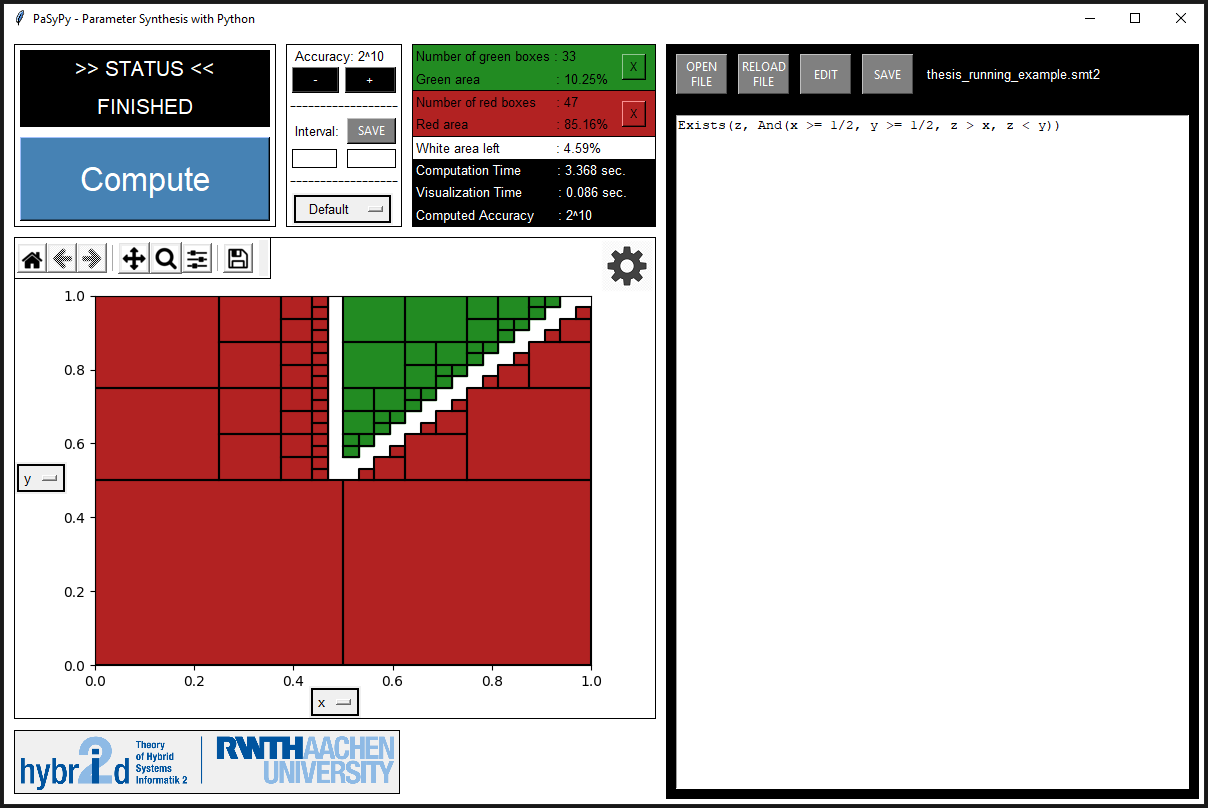
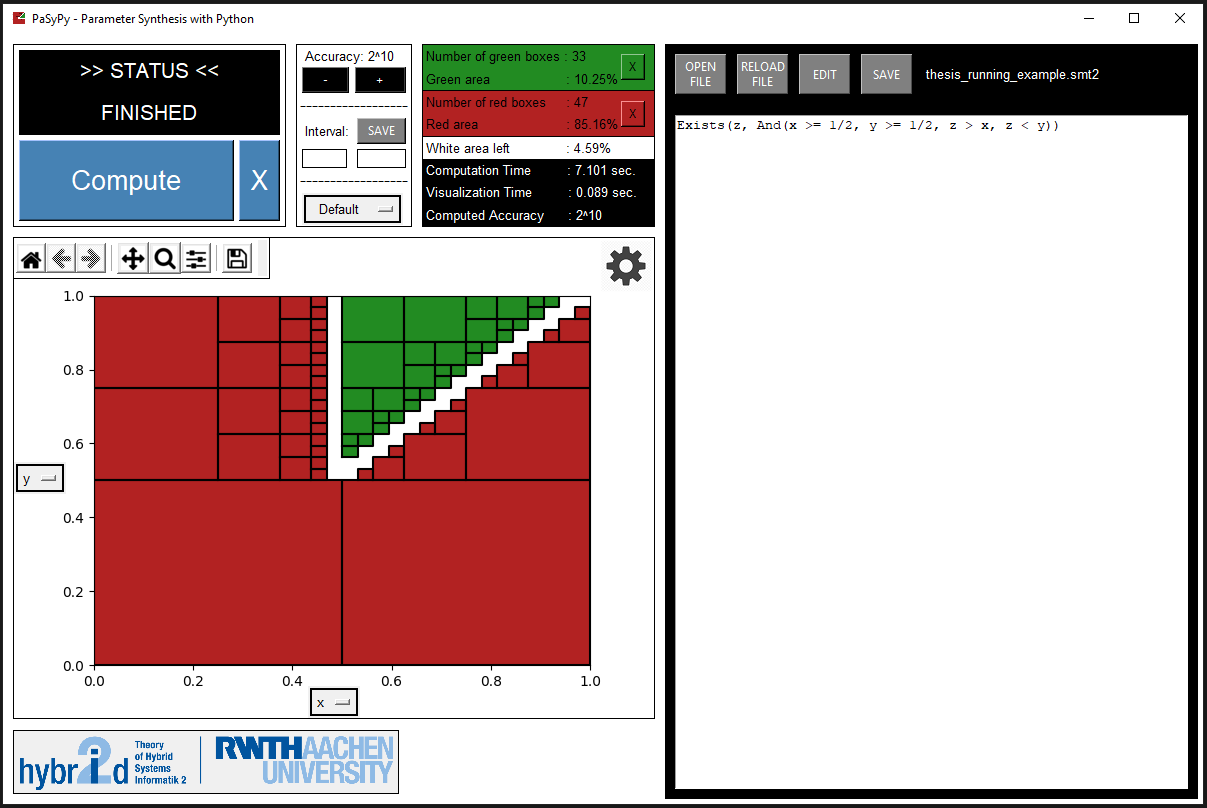
feat: stop computation and receive partial results

diff --git a/pasypy/gui.py b/pasypy/gui.py
@@ -35,6 +35,7 @@ class MainApplication(tk.Frame):
         tk.Grid.columnconfigure(self.parent, index=1, weight=1)
         self.tk.call('wm', 'iconphoto', self.parent._w, tk.PhotoImage(file='images/PaSyPy_logo.png'))
 
+        self.running = False
         self.line = 0
         self.file_path = None
         self.computation_timer = Timer()
@@ -78,8 +79,10 @@ class MainApplication(tk.Frame):
         #### START - FRAME 1.1.1.2 #
         self.frame1112 = tk.Frame(master=self.frame111, background='white')
         self.frame1112.grid(row=1, column=0, sticky=(tk.N+tk.E+tk.S+tk.W), padx=1, pady=(0,1))
-        self.compute_button = tk.Button(self.frame1112, text='Compute', command=self.start_calculation, bg='steel blue', fg='white', font=('',25))
-        self.compute_button.grid(row=0, column=0, sticky=(tk.N+tk.E+tk.S+tk.W), padx=5, pady=5)
+        self.compute_button = tk.Button(self.frame1112, text='Compute', command=self.start_calculation, bg='steel blue', fg='white', font=('',20))
+        self.compute_button.grid(row=0, column=0, sticky=(tk.N+tk.E+tk.S+tk.W), padx=5, pady=(0,5))
+        self.stop_button = tk.Button(self.frame1112, text='X', command=self.stop_calculation, bg='steel blue', fg='white', font=('',20))
+        self.stop_button.grid(row=0, column=1, sticky=(tk.N+tk.E+tk.S+tk.W), padx=(0,5), pady=(0,5))
 
         tk.Grid.rowconfigure(self.frame1112, index=0, weight=1)
         tk.Grid.columnconfigure(self.frame1112, index=0, weight=1)
@@ -484,7 +487,9 @@ class MainApplication(tk.Frame):
         self.ready_label.configure(text='COMPUTING...')
         self.ready_label.update()
         self.computation_timer.create_timestamp('Computation')
-        PaSyPy().main()
+        self.running = True
+        PaSyPy().main(self)
+        self.running = False
         self.computation_timer.calculate_time('Computation')
         self.computation_time.config(text='Computation Time         : {} sec.'.format(round(self.computation_timer.get_time('Computation'), 3)))
 
@@ -520,6 +525,10 @@ class MainApplication(tk.Frame):
             self.update_window()
             self.add_axes_field(update=True)
             self.ready_label.configure(text='FINISHED')
+
+    def stop_calculation(self):
+        """Immediately stops the computation."""
+        self.running = False
 
     def update_window(self):
         """Updates the information window."""

diff --git a/pasypy/pasypy.py b/pasypy/pasypy.py
@@ -79,12 +79,13 @@ class PaSyPy:
         else:
             print('TIMEOUT', variables.solver.reason_unknown()) # pragma: no cover
 
-    def main(self):
+    def main(self, application):
         """The main function of this tool which tries to find safe and unsafe regions of the parameter space."""
-        while variables.queue:
+        while variables.queue and application.running:
             if self.check_zoom() and (variables.queue[0][len(variables.parameters)] <= (2**variables.depth_limit)):
                 self.solveit(variables.queue[0])
             else:
                 variables.sub_queue.append(variables.queue[0])
                 variables.queue.pop(0)
+            application.update() # prevents the GUI to get stuck in this loop
         Logger().create_logfiles()
